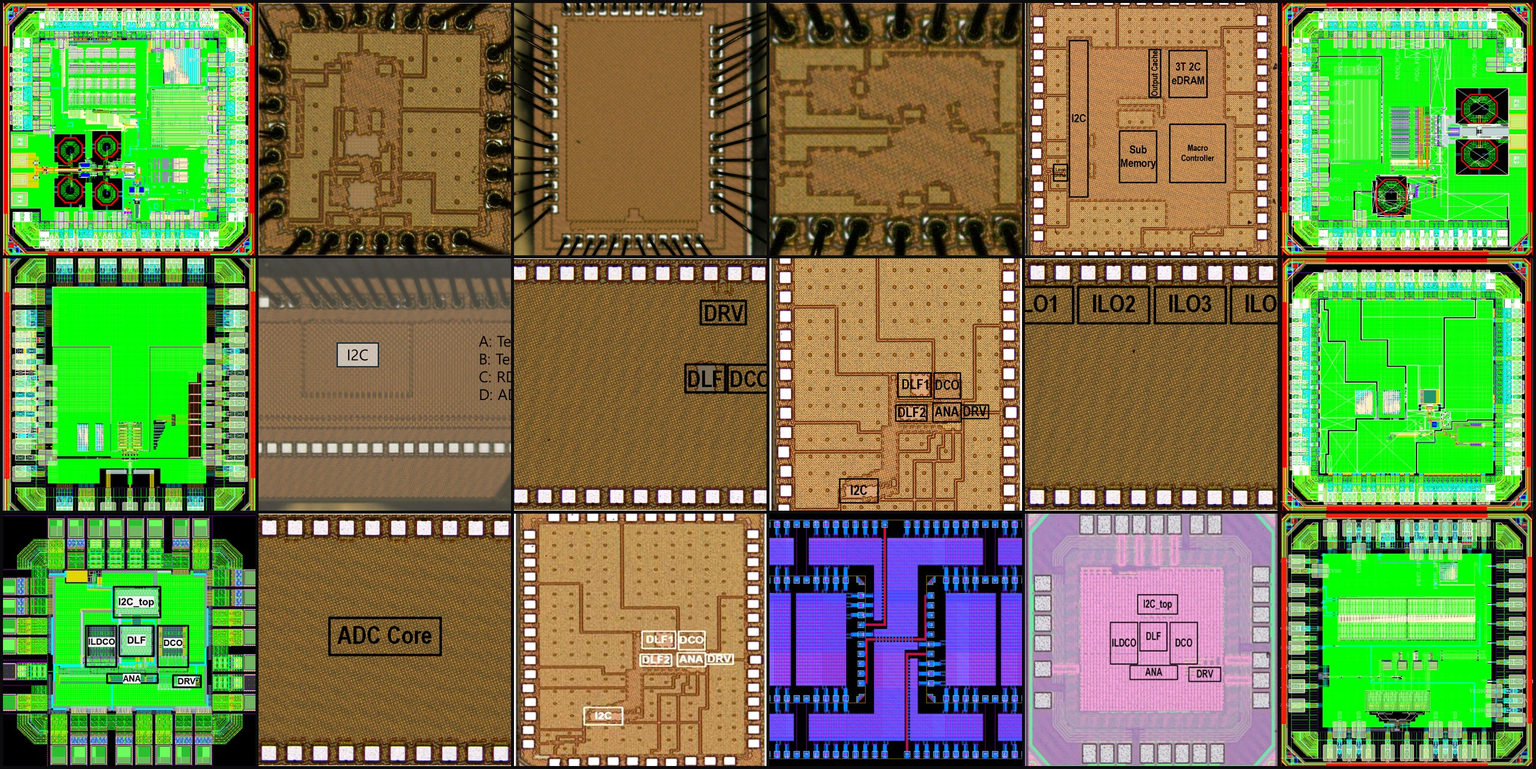
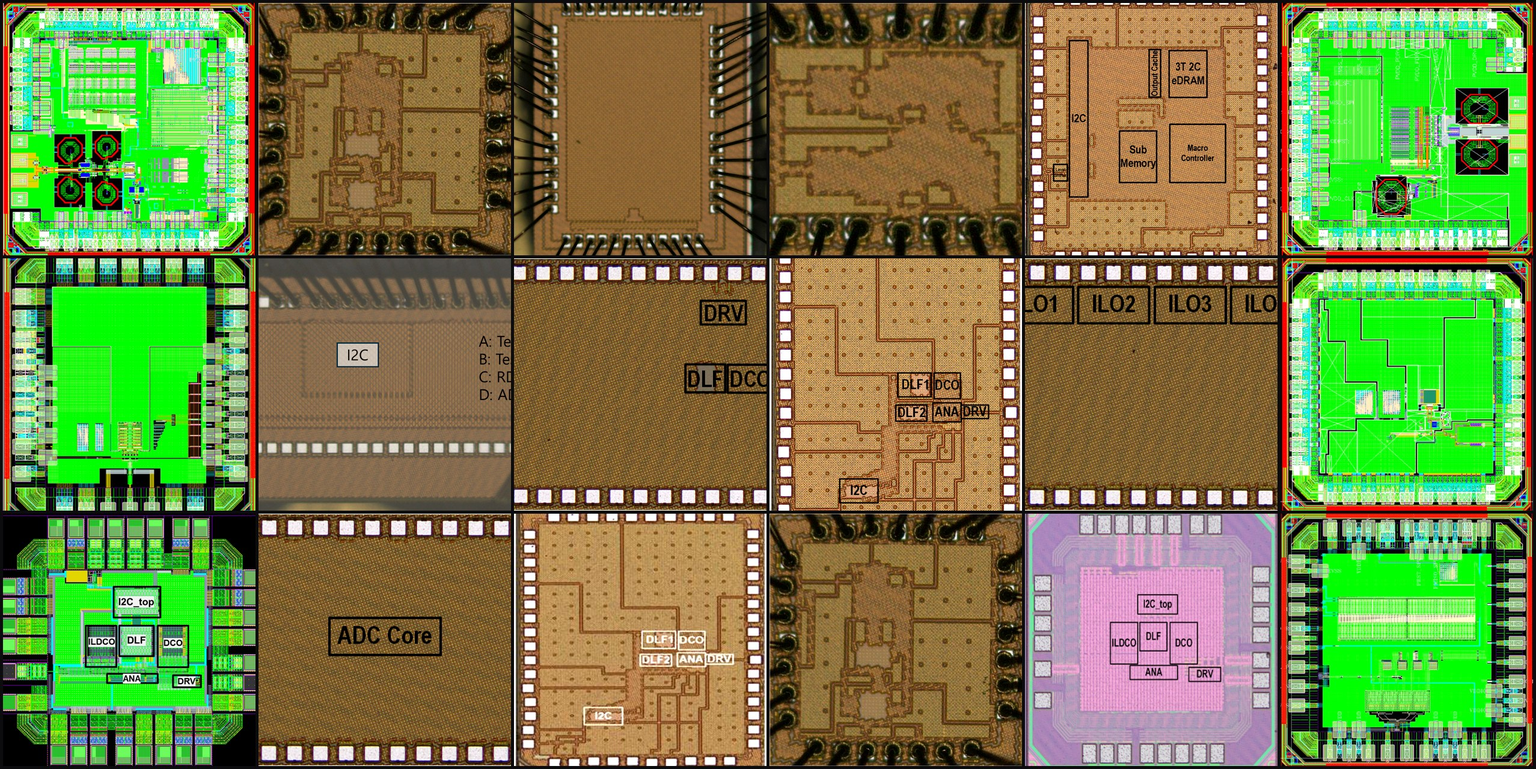
Hero: replace OnChipTrace layout tile with real chip photo

Changed region(s): [[0.4947, 0.6562, 0.6802, 1.0]]

diff --git a/index.html b/index.html
@@ -163,7 +163,7 @@
           <div class="carousel-inner">
             <div class="carousel-item active">
               <img
-                src="img/hpic-hero-chips.jpg?v=2"
+                src="img/hpic-hero-chips.jpg?v=3"
                 class="d-block w-100"
                 alt="HPIC Design Lab silicon chips"
               />
